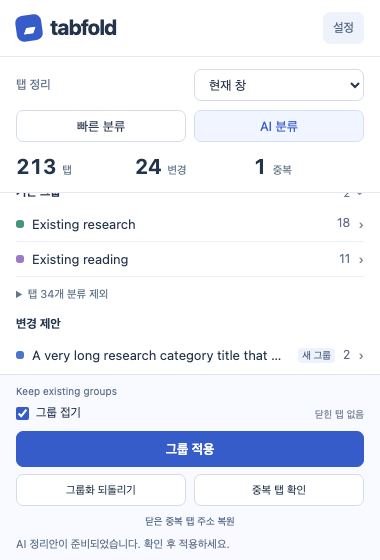
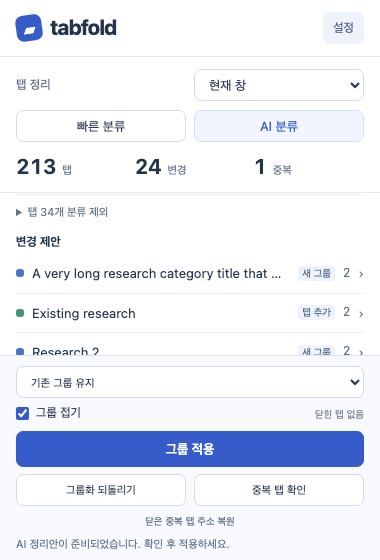
Allow choosing grouping mode directly in the popup

diff --git a/extension/popup.html b/extension/popup.html
@@ -5,5 +5,5 @@
 <section class="controls"><div class="scope-row"><label for="scope" data-i18n="Organize">Organize</label><select id="scope"><option value="current" data-i18n="This window">This window</option><option value="all" data-i18n="All windows">All windows</option></select></div><div class="preview-actions"><button id="refresh" data-i18n="Quick preview">Quick preview</button><button id="aiPreview" data-i18n="AI preview">AI preview</button></div></section>
 <section class="stats"><div><strong id="total">—</strong><span data-i18n="Tabs">Tabs</span></div><div><strong id="groupCount">—</strong><span data-i18n="Changes">Changes</span></div><div><strong id="duplicateCount">—</strong><span data-i18n="Duplicates">Duplicates</span></div></section>
 <main id="results"><details id="existingSection" class="existing-section" open><summary class="section-title"><h2 data-i18n="Existing groups">Existing groups</h2><span id="existingCount"></span></summary><div id="existingGroups"></div><p id="noExisting" data-i18n="No existing groups in this scope.">No existing groups in this scope.</p></details><details id="excluded"><summary id="excludedSummary"></summary><p id="groupedReason"></p><p id="otherProtectedReason"></p></details><div class="section-title"><h1 data-i18n="Proposed changes">Proposed changes</h1></div><div id="groups"></div><p id="empty" hidden data-i18n="No groups to create. Try AI preview or another window.">No groups to create. Try AI preview or another window.</p><section id="suggestionsSection" hidden><h2 data-i18n="Suggested categories">Suggested categories</h2><div id="suggestionRows"></div></section><section id="duplicateReview" hidden><h2 data-i18n="Review duplicates">Review duplicates</h2><p data-i18n="These tabs have identical addresses. Closing them loses unsaved edits.">These tabs have identical addresses. Closing them loses unsaved edits.</p><ul id="duplicateList"></ul><button id="dedupe" class="danger" data-i18n="Close these duplicates">Close these duplicates</button></section></main>
-<footer><p id="groupingModeNotice" class="mode-notice" role="note"></p><label class="collapse"><input id="collapse" type="checkbox" checked><span data-i18n="Collapse groups">Collapse groups</span><span class="hint" data-i18n="No tabs closed">No tabs closed</span></label><button id="apply" class="primary" disabled data-i18n="Apply groups">Apply groups</button><div class="secondary"><button id="undo" disabled data-i18n="Undo grouping">Undo grouping</button><button id="duplicates" disabled data-i18n="Review duplicates">Review duplicates</button></div><button id="restore" class="quiet restore" data-i18n="Restore closed duplicate URLs">Restore closed duplicate URLs</button><p id="status" role="status" aria-live="polite" data-i18n="Reading your tabs…">Reading your tabs…</p></footer>
+<footer><select id="groupingMode" data-i18n-label="Grouping mode" aria-label="Grouping mode"><option value="preserve" data-i18n="Keep existing groups">Keep existing groups</option><option value="regroup" data-i18n="Regroup all eligible tabs">Regroup all eligible tabs</option></select><p id="groupingModeNotice" class="mode-notice" role="note"></p><label class="collapse"><input id="collapse" type="checkbox" checked><span data-i18n="Collapse groups">Collapse groups</span><span class="hint" data-i18n="No tabs closed">No tabs closed</span></label><button id="apply" class="primary" disabled data-i18n="Apply groups">Apply groups</button><div class="secondary"><button id="undo" disabled data-i18n="Undo grouping">Undo grouping</button><button id="duplicates" disabled data-i18n="Review duplicates">Review duplicates</button></div><button id="restore" class="quiet restore" data-i18n="Restore closed duplicate URLs">Restore closed duplicate URLs</button><p id="status" role="status" aria-live="polite" data-i18n="Reading your tabs…">Reading your tabs…</p></footer>
 <script type="module" src="popup.js"></script></body></html>

diff --git a/extension/popup.js b/extension/popup.js
@@ -27,6 +27,8 @@ function render(){
   const existing=plan.existingGroups||[];
   $('existingCount').textContent=existing.length;$('existingGroups').replaceChildren(...existing.map(group=>groupRow(group,true)));$('noExisting').hidden=!!existing.length;
   const regroup=plan.groupingMode==='regroup';
+  $('groupingMode').value=regroup?'regroup':'preserve';
+  $('groupingModeNotice').hidden=!regroup;
   $('groupingModeNotice').textContent=t(regroup?'Regroup mode: existing groups may be rebuilt.':'Keep existing groups');
   $('groupingModeNotice').classList.toggle('warning',regroup);
   $('groupedReason').hidden=regroup;
@@ -42,6 +44,14 @@ function renderSuggestions(){
   suggestions.forEach((suggestion,index)=>{const row=document.createElement('div');row.className='suggestion-row';const name=document.createElement('input');name.value=suggestion.title;name.maxLength=40;name.setAttribute('aria-label',t('Suggested category name'));const description=document.createElement('p');description.textContent=t('{count} matching tabs',{count:suggestion.tabIds.length});const button=document.createElement('button');button.textContent=t('Add category to preview');button.onclick=()=>run(async()=>{const result=await send({type:'acceptSuggestion',index,title:name.value,plan});plan=result.plan;suggestions=result.suggestions;render();status(t('Category added. Review and apply the groups.'));});row.append(name,description,tabList(suggestion.tabs||[]),button);$('suggestionRows').append(row);});
 }
 async function refresh(ai=false){const window=await chrome.windows.getCurrent();const result=await send({type:'preview',windowId:window.id,provider:provider.id,allWindows:$('scope').value==='all',ai,suggestNew:preferences.suggestNew});plan=result.plan;suggestions=result.suggestions||[];undoAvailable=result.undoAvailable;render();if(result.suggestionError)status(t('Groups are ready, but category suggestions failed.')+' '+result.suggestionError,true);return result;}
+$('groupingMode').onchange=()=>run(async()=>{
+  const previous=plan?.groupingMode || 'preserve';
+  try{await send({type:'setGroupingMode',groupingMode:$('groupingMode').value});}
+  catch(error){$('groupingMode').value=previous;throw error;}
+  plan=undefined;suggestions=[];controls();
+  status(t('Reading your tabs…'));await refresh();
+  status(t('Preview ready. Your tabs have not changed.'));
+});
 $('settings').onclick=()=>chrome.runtime.openOptionsPage();
 $('refresh').onclick=()=>run(async()=>{status(t('Reading your tabs…'));await refresh();status(t('Preview ready. Your tabs have not changed.'));});$('scope').onchange=$('refresh').onclick;
 $('aiPreview').onclick=async()=>{if(busy)return;try{const granted=await chrome.permissions.request({origins:[provider.origin]});if(!granted){status(t('Allow {provider} access to use AI preview.',{provider:provider.name}),true);return;}await run(async()=>{status(t('AI is sorting your tabs…'));const result=await refresh(true);if(!result.suggestionError)status(t('AI preview ready. Review before applying.'));});}catch(error){status(error.message,true);}};

diff --git a/extension/popup.css b/extension/popup.css
@@ -2,3 +2,5 @@
 @media(prefers-color-scheme:dark){:root{color-scheme:dark;color:#e5ebf5;background:#19212d}button,select{background:#242f3e;border-color:#435269;color:#e5ebf5}button:hover:enabled{background:#334259}.quiet{background:transparent;color:#b6c6dc}header,main{border-color:#354255}.scope-row label,.stats span,#protected,.count,.group li,#duplicateList li,.suggestion-row li,p{color:#b4c2d6}#aiPreview{background:#263753;color:#bed1ff;border-color:#49658e}.group,#suggestionsSection,.suggestion-row{border-color:#354255}.group summary:after{color:#a8b8ce}footer{background:#202b3a;border-color:#435269}.hint{color:#a8b8ce}.primary{background:#426adc;border-color:#426adc;color:#fff}.primary:hover:enabled{background:#527bec}.suggestion-row input{background:#242f3e;color:#e5ebf5;border-color:#435269}.danger{color:#ffacb7;border-color:#9f5869}#status.error{color:#ffacb7}button:focus-visible,input:focus-visible,select:focus-visible,summary:focus-visible{outline-color:#95b2ff}}
 .existing-section>.section-title{cursor:pointer;list-style:none;padding-bottom:5px}.existing-section>.section-title::-webkit-details-marker{display:none}.existing-section>.section-title:after{content:'›';color:#7a8799}.existing-section[open]>.section-title:after{transform:rotate(90deg)}#existingCount{margin-left:auto;color:#64758b;font-size:11px}.group-action{flex:none;font-size:10px;color:#536783;background:#edf2fb;border-radius:4px;padding:1px 4px;max-width:105px;white-space:normal;line-height:1.25}.group-title{flex:1}.group .count{margin-left:0}#excluded{font-size:11px;color:#64758b;padding:9px 0 3px}#excluded summary{cursor:pointer;line-height:1.4}#excluded p{font-size:11px;margin:5px 0;padding-left:12px}#noExisting{font-size:11px}#existingGroups .group summary{padding:8px 0}@media(prefers-color-scheme:dark){#excluded,#existingCount{color:#b4c2d6}.group-action{background:#2b3d58;color:#c3d3ed}}
 .mode-notice{font-size:10px;line-height:1.3;color:#60718a;margin:0 0 7px}.mode-notice.warning{color:#835515;border-left:3px solid #c48a2b;padding-left:7px}@media(prefers-color-scheme:dark){.mode-notice{color:#b4c2d6}.mode-notice.warning{color:#f0c37b;border-color:#d9a652}}
+
+#groupingMode{width:100%;max-width:none;min-width:0;margin-bottom:7px;font-size:11px}
